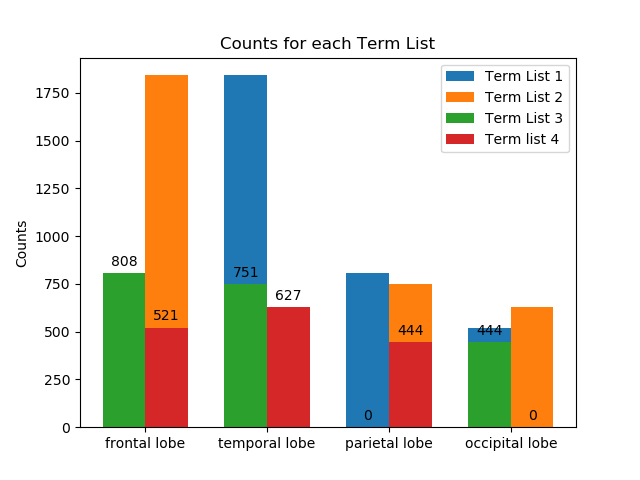
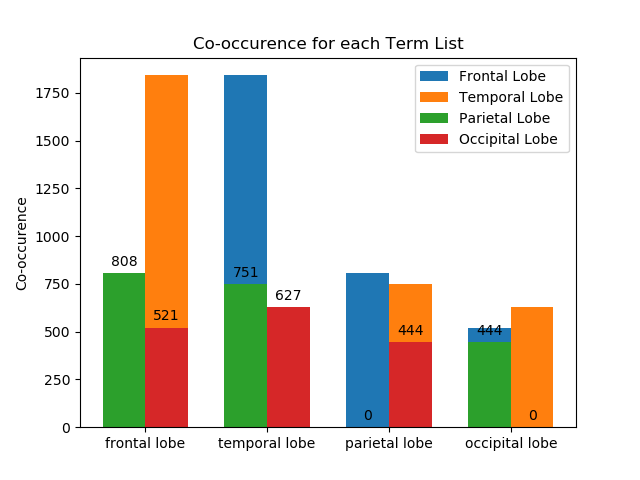
Fixed Wording Mistake in Title

Changed region(s): [[0.3125, 0.0625, 0.875, 0.3125], [0.0, 0.4062, 0.0625, 0.5938]]

diff --git a/plot.py b/plot.py
@@ -15,13 +15,13 @@ width = 0.35  # the width of the bars
 
 
 fig, ax = plt.subplots()
-rects1 = ax.bar(x - width/2, counts1, width, label='Term List 1')
-rects2 = ax.bar(x + width/2, counts2, width, label='Term List 2')
-rects1 = ax.bar(x - width/2, counts3, width, label='Term List 3')
-rects2 = ax.bar(x + width/2, counts4, width, label='Term list 4')
+rects1 = ax.bar(x - width/2, counts1, width, label='Frontal Lobe')
+rects2 = ax.bar(x + width/2, counts2, width, label='Temporal Lobe')
+rects1 = ax.bar(x - width/2, counts3, width, label='Parietal Lobe')
+rects2 = ax.bar(x + width/2, counts4, width, label='Occipital Lobe')
 
-ax.set_ylabel('Counts')
-ax.set_title('Counts for each Term List')
+ax.set_ylabel('Co-occurence')
+ax.set_title('Co-occurence for each Term List')
 ax.set_xticks(x)
 ax.set_xticklabels(terms)
 ax.legend()
